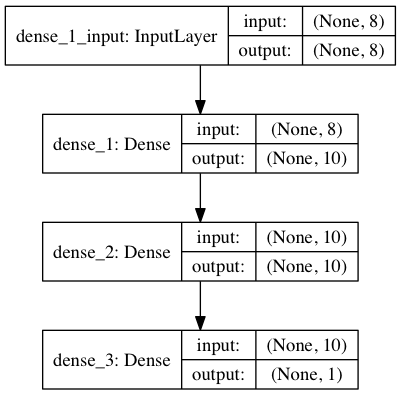
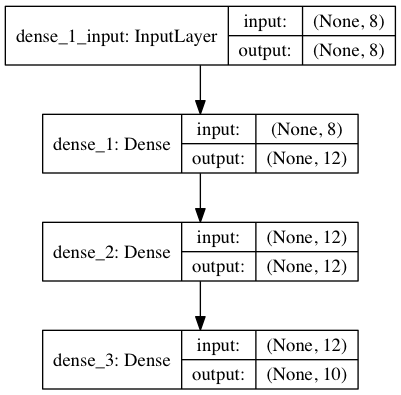
Completed categorical model, 98.2% accuracy

diff --git a/src/testModel.py b/src/testModel.py
@@ -6,20 +6,21 @@ import numpy
 BODY_SPLITS = ["Abs / Core", "Back", "Biceps", "Chest", "Legs", "Olympic", "Shoulders", "Triceps"]
 CLASSIFICATIONS = ["Arms", "Chest and Tri", "Chest", "Chest and Back", "Back and Bi", "Back", "Shoulders", "Legs", "Other", "Full Body"]
 
-# load json and create model
-json_file = open('model/model.json', 'r')
-loaded_model_json = json_file.read()
-json_file.close()
-model = model_from_json(loaded_model_json)
-# load weights into new model
-model.load_weights("model/model.h5")
-print("Loaded model from disk")
-
 def testWithTestFiles(fileNames, verbose):
+    # load json and create model
+    json_file = open('model/model.json', 'r')
+    loaded_model_json = json_file.read()
+    json_file.close()
+    model = model_from_json(loaded_model_json)
+    # load weights into new model
+    model.load_weights("model/model.h5")
+    print("Loaded model from disk")
+
     total, numCorrect = 0, 0
+
     for fileName in fileNames:
-        testingData = []
-        expectedOutput = []
+        testingData, expectedOutput = [], []
+
         for row in csv.reader(open(fileName)):
             bodySplit = row[0].split('#')
             intSplit = [0, 0, 0, 0, 0, 0, 0, 0]
@@ -30,23 +31,26 @@ def testWithTestFiles(fileNames, verbose):
                 intSplit[i] = arr[0]
             testingData.append(intSplit)
             if (len(row) > 1):
-                expectedOutput.append(CLASSIFICATIONS.index(row[1])/float((len(CLASSIFICATIONS)-1)))
+                hotClassifications = [0, 0, 0, 0, 0, 0, 0, 0, 0, 0]
+                hotClassifications[CLASSIFICATIONS.index(row[1])] = 1
+                expectedOutput.append(hotClassifications)
         # calculate predictions
         predictions = model.predict(numpy.array(testingData))
         if (len(expectedOutput) > 0):
             for i in range(len(predictions)):
-                pred = int(round(predictions[i][0]*(len(CLASSIFICATIONS)-1)))
-                actl = int(round(expectedOutput[i]*(len(CLASSIFICATIONS)-1)))
+                pred = predictions[i].argmax(axis = 0)
+                actl = expectedOutput[i].index(1)
                 total += 1
                 if pred == actl:
                     numCorrect += 1
                 elif verbose:
-                    print i+1, CLASSIFICATIONS[pred], '  --should be->  ', CLASSIFICATIONS[actl]
+                    print fileName, i+1, CLASSIFICATIONS[pred], '  --should be->  ', CLASSIFICATIONS[actl], '   certainty:', predictions[i][pred] * 100
         else:
             i = 0
             for row in csv.reader(open(fileName)):
                 if verbose:
-                    print i+1, row[0], '  --guess->  ', CLASSIFICATIONS[int(round(predictions[i][0]*(len(CLASSIFICATIONS)-1)))]
-            i += 1
+                    pred = predictions[i].argmax(axis = 0)
+                    print i+1, row[0], '  --guess->  ', CLASSIFICATIONS[pred], '   certainty:', predictions[i][pred] * 100
+                i += 1
     if total:
-        print("********************************** %s: Actual accuracy: %.2f%%" % (fileName, float(numCorrect) / total * 100))
+        print("*********************************************** Actual accuracy: %.2f%%" % (float(numCorrect) / total * 100))

diff --git a/src/buildModel.py b/src/buildModel.py
@@ -36,15 +36,15 @@ def buildModelWithTrainingFiles(trainingFiles):
 
     # create model
     model = Sequential()
-    model.add(Dense(10, input_dim = 8, kernel_initializer = 'uniform', activation = 'relu'))
-    model.add(Dense(10, kernel_initializer = 'uniform', activation = 'relu'))
-    model.add(Dense(1, kernel_initializer = 'uniform', activation = 'sigmoid'))
+    model.add(Dense(12, input_dim = 8, kernel_initializer = 'uniform', activation = 'relu'))
+    model.add(Dense(12, kernel_initializer = 'uniform', activation = 'relu'))
+    model.add(Dense(10, kernel_initializer = 'uniform', activation = 'sigmoid'))
 
     # Compile model
     model.compile(loss = 'binary_crossentropy', optimizer = 'adam', metrics = ['accuracy'])
 
     # Fit the model
-    model.fit(trainingData, expectedOutput, epochs = 150, batch_size = 5)
+    model.fit(trainingData, expectedOutput, epochs = 500, batch_size = 5)
 
     # evaluate the model
     scores = model.evaluate(trainingData, expectedOutput)
@@ -57,5 +57,3 @@ def buildModelWithTrainingFiles(trainingFiles):
     model.save_weights("model/model.h5")
     plot_model(model, to_file='model/model.png', show_shapes = True, show_layer_names = True)
     print("Saved model to disk")
-
-buildModelWithTrainingFiles(['testData/testData1.csv', 'testData/testData2.csv', 'testData/testData3.csv', 'testData/testData4.csv'])

diff --git a/main.py b/main.py
@@ -6,7 +6,7 @@ from testDataGenerator import generateTestData
 
 buildModelWithTrainingFiles(['testData/testData1.csv', 'testData/testData2.csv', 'testData/testData3.csv', 'testData/testData4.csv'])
 
-testWithTestFiles(['testData/testData1.csv', 'testData/testData2.csv', 'testData/testData3.csv', 'testData/testData4.csv'], False)
+testWithTestFiles(['testData/testData1.csv', 'testData/testData2.csv', 'testData/testData3.csv', 'testData/testData4.csv'], True)
 
 generateTestData('testData/tempTestData.csv', 10)
 testWithTestFiles(['testData/tempTestData.csv'], True)
